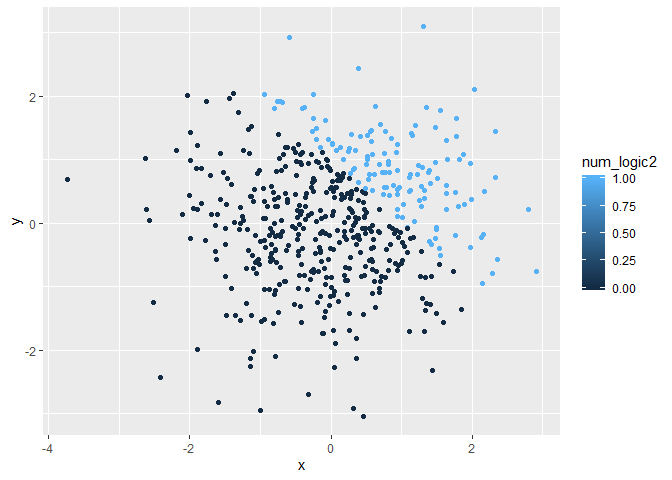
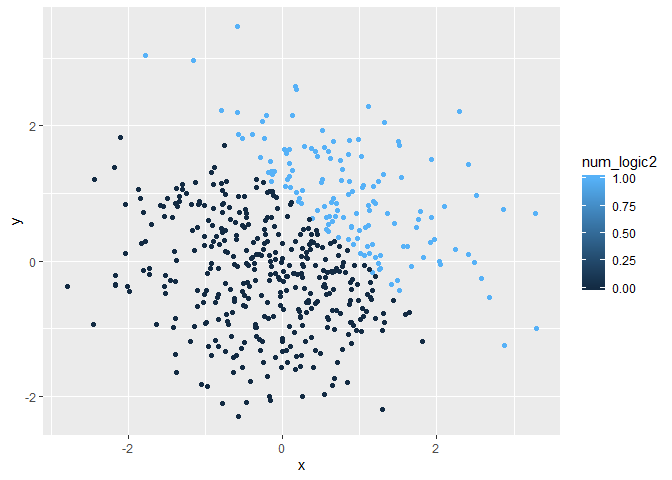
I changed the formula for calculating proportion. I believe using sum instead of using which is more straight forward approach.

diff --git a/p8105_hw1_ha2546.md b/p8105_hw1_ha2546.md
@@ -22,13 +22,13 @@ prob1_df = tibble(
 mean(pull(prob1_df, vec_sample))
 ```
 
-    ## [1] 0.4444922
+    ## [1] -0.2781207
 
 ``` r
 mean(pull(prob1_df, vec_logic))
 ```
 
-    ## [1] 0.625
+    ## [1] 0.125
 
 ``` r
 mean(pull(prob1_df, vec_char))
@@ -92,8 +92,8 @@ num_logic_calc = pull(prob1_df, vec_sample) * num_logic
 num_logic_calc
 ```
 
-    ## [1] 2.0380667 0.2765061 0.0000000 0.0000000 1.5849044 0.5586396 1.3837351
-    ## [8] 0.0000000
+    ## [1] 0.0000000 0.0000000 0.0000000 0.0000000 0.0000000 0.0000000 0.0000000
+    ## [8] 0.9462709
 
 ``` r
 factor_logic = as.factor(pull(prob1_df, vec_logic))
@@ -107,7 +107,7 @@ factor_logic_calc1 = pull(prob1_df, vec_sample) * factor_logic
 factor_logic
 ```
 
-    ## [1] TRUE  TRUE  FALSE FALSE TRUE  TRUE  TRUE  FALSE
+    ## [1] FALSE FALSE FALSE FALSE FALSE FALSE FALSE TRUE 
     ## Levels: FALSE TRUE
 
 ``` r
@@ -122,14 +122,14 @@ factor_logic_calc2 = pull(prob1_df, vec_sample) * num_factor_logic
 num_factor_logic
 ```
 
-    ## [1] 2 2 1 1 2 2 2 1
+    ## [1] 1 1 1 1 1 1 1 2
 
 ``` r
 factor_logic_calc2
 ```
 
-    ## [1]  4.0761334  0.5530121 -0.1398486 -1.0294156  3.1698089  1.1172791
-    ## [7]  2.7674701 -1.1166501
+    ## [1] -0.0531174 -1.4955749 -0.0524929 -0.4237082 -0.2163673 -0.2536392
+    ## [7] -0.6763363  1.8925418
 
   - **Results**
 
@@ -158,10 +158,10 @@ prob2_df = tibble(
 )
 ```
 
-The size of my dataset is 500, 5; which means it has 500 rows and
-5columns. The mean of x is 0.0254439, its median is 0.0300601, and its
-standard deviation is 1.0152901. The proportion of cases for which x + y
-\> 1 is 0.052
+The size of my dataset for problem 2 (named prob2\_df) is 500, 5; which
+means it has 500 rows and 5columns. The mean of x is 0.0626211, its
+median is 0.0750084, and its standard deviation is 0.9952348. The
+proportion of cases for which x + y \> 1 is 0.276
 
 ## 2.2
 
